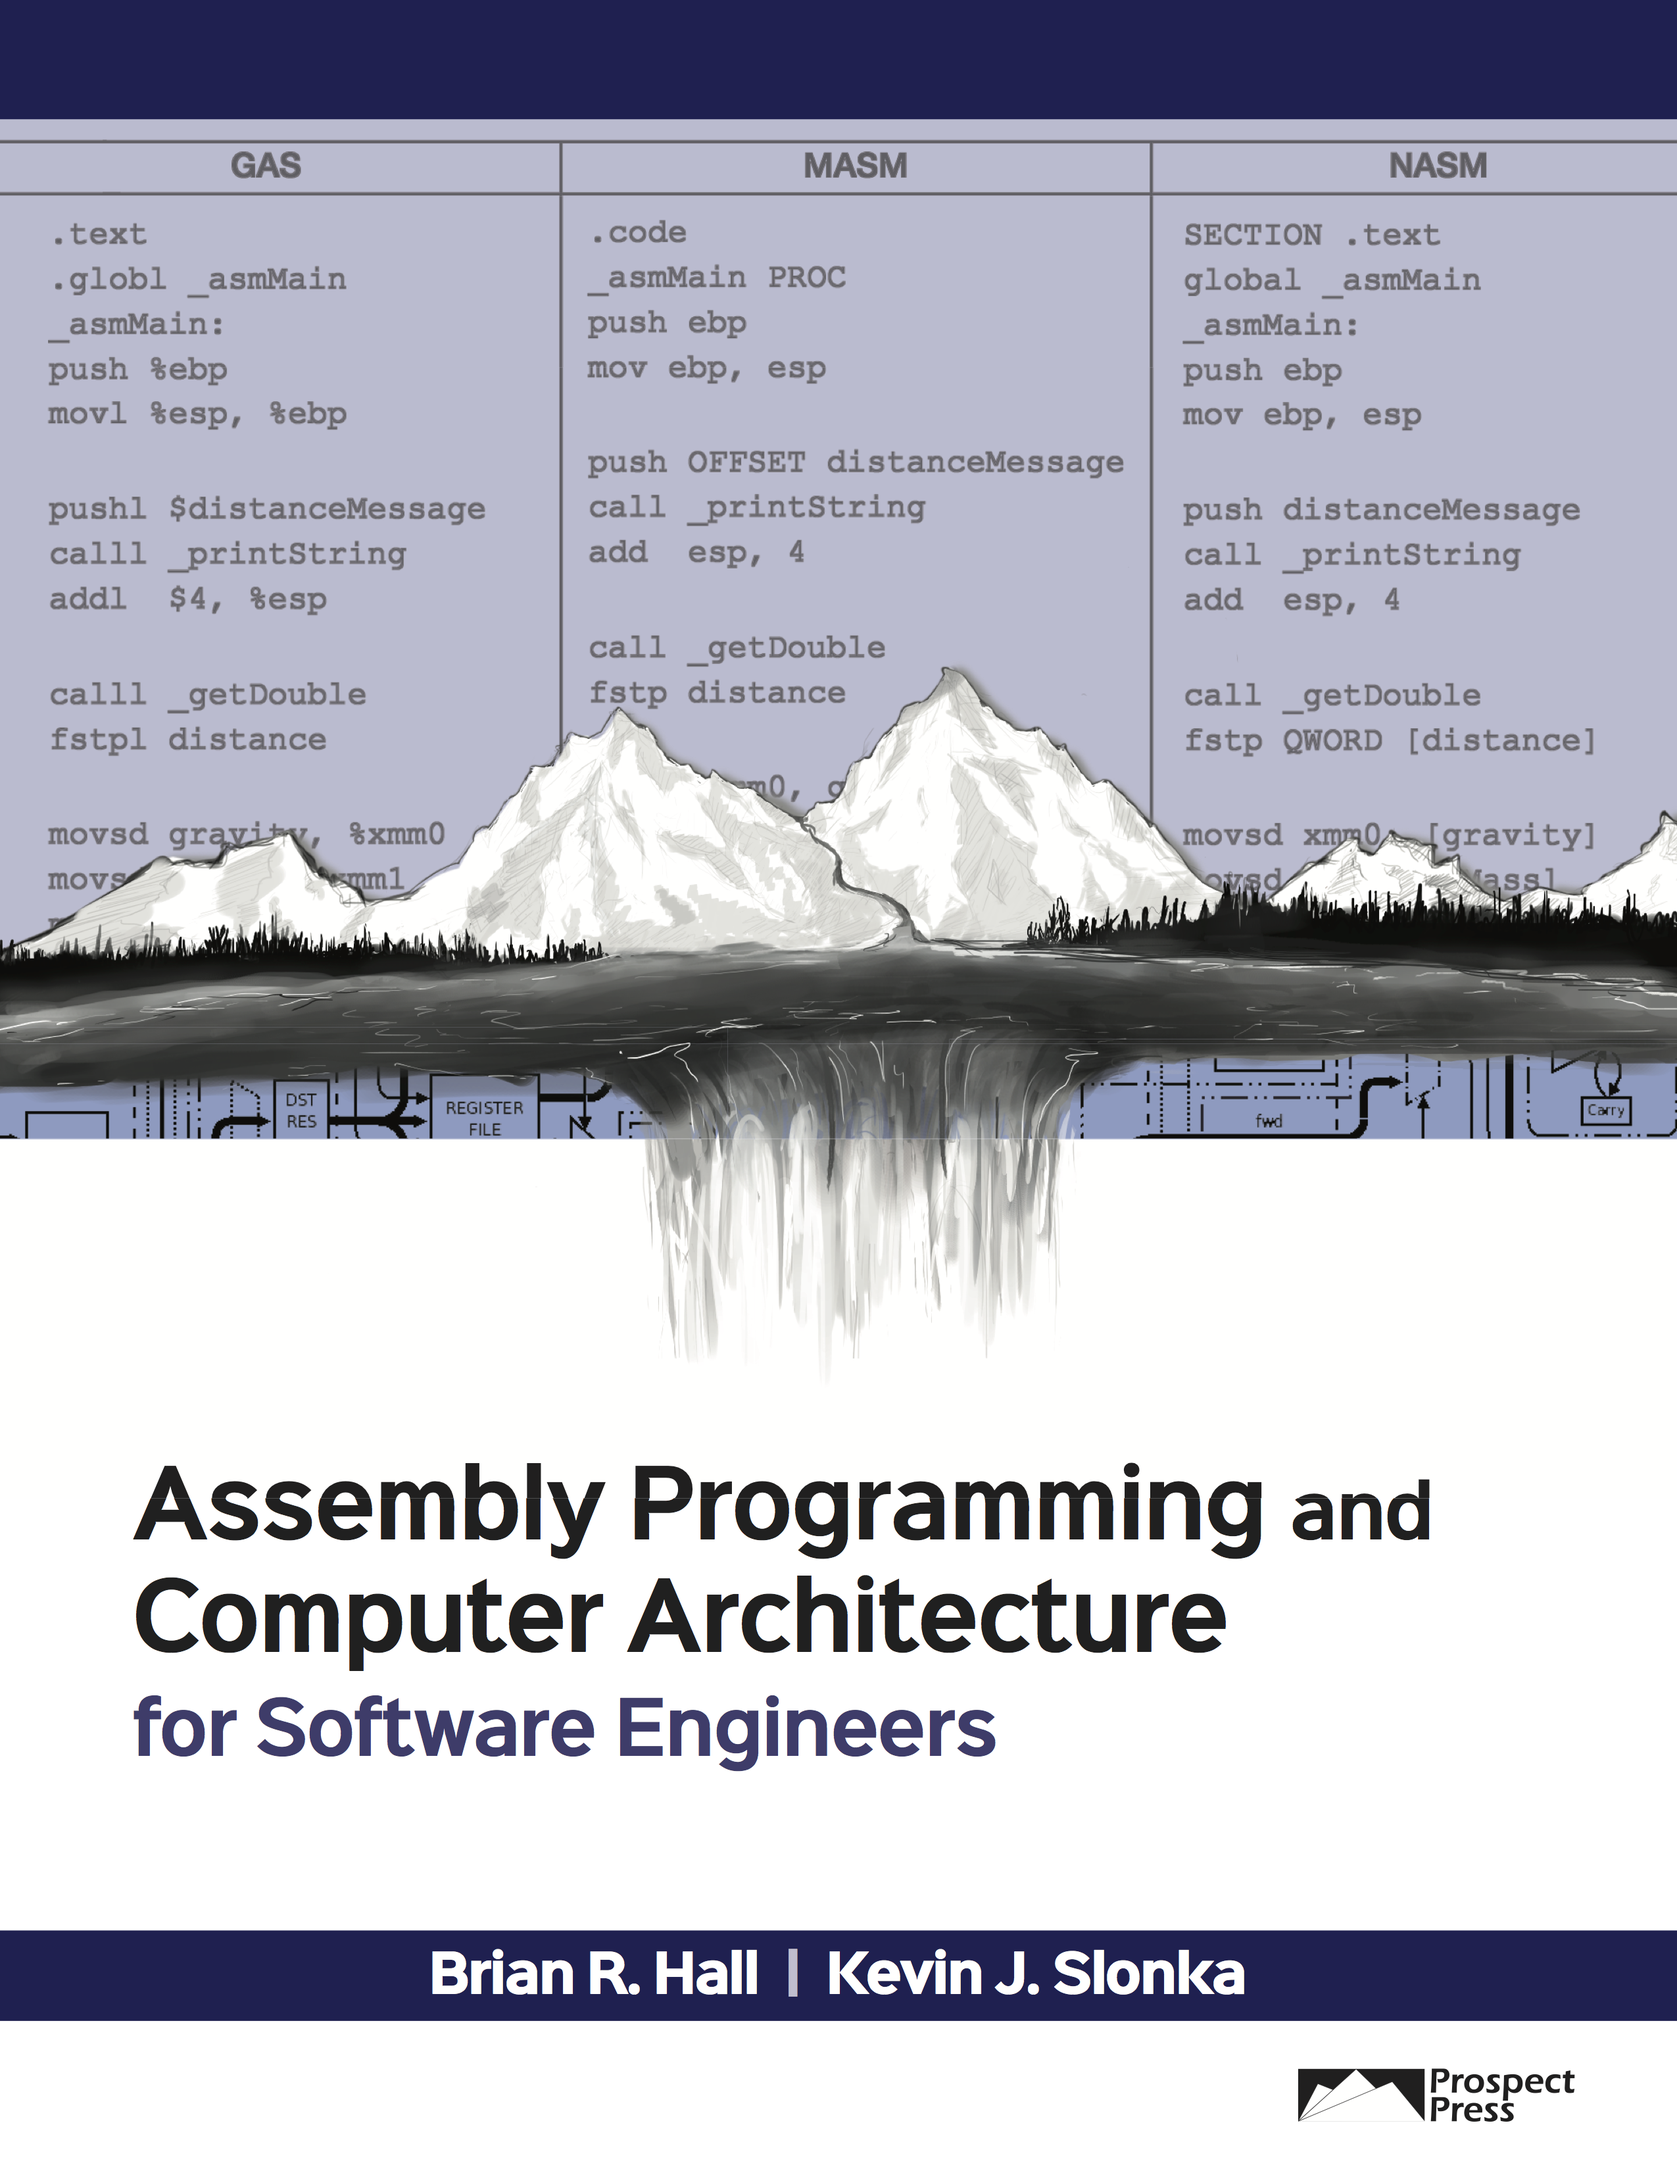
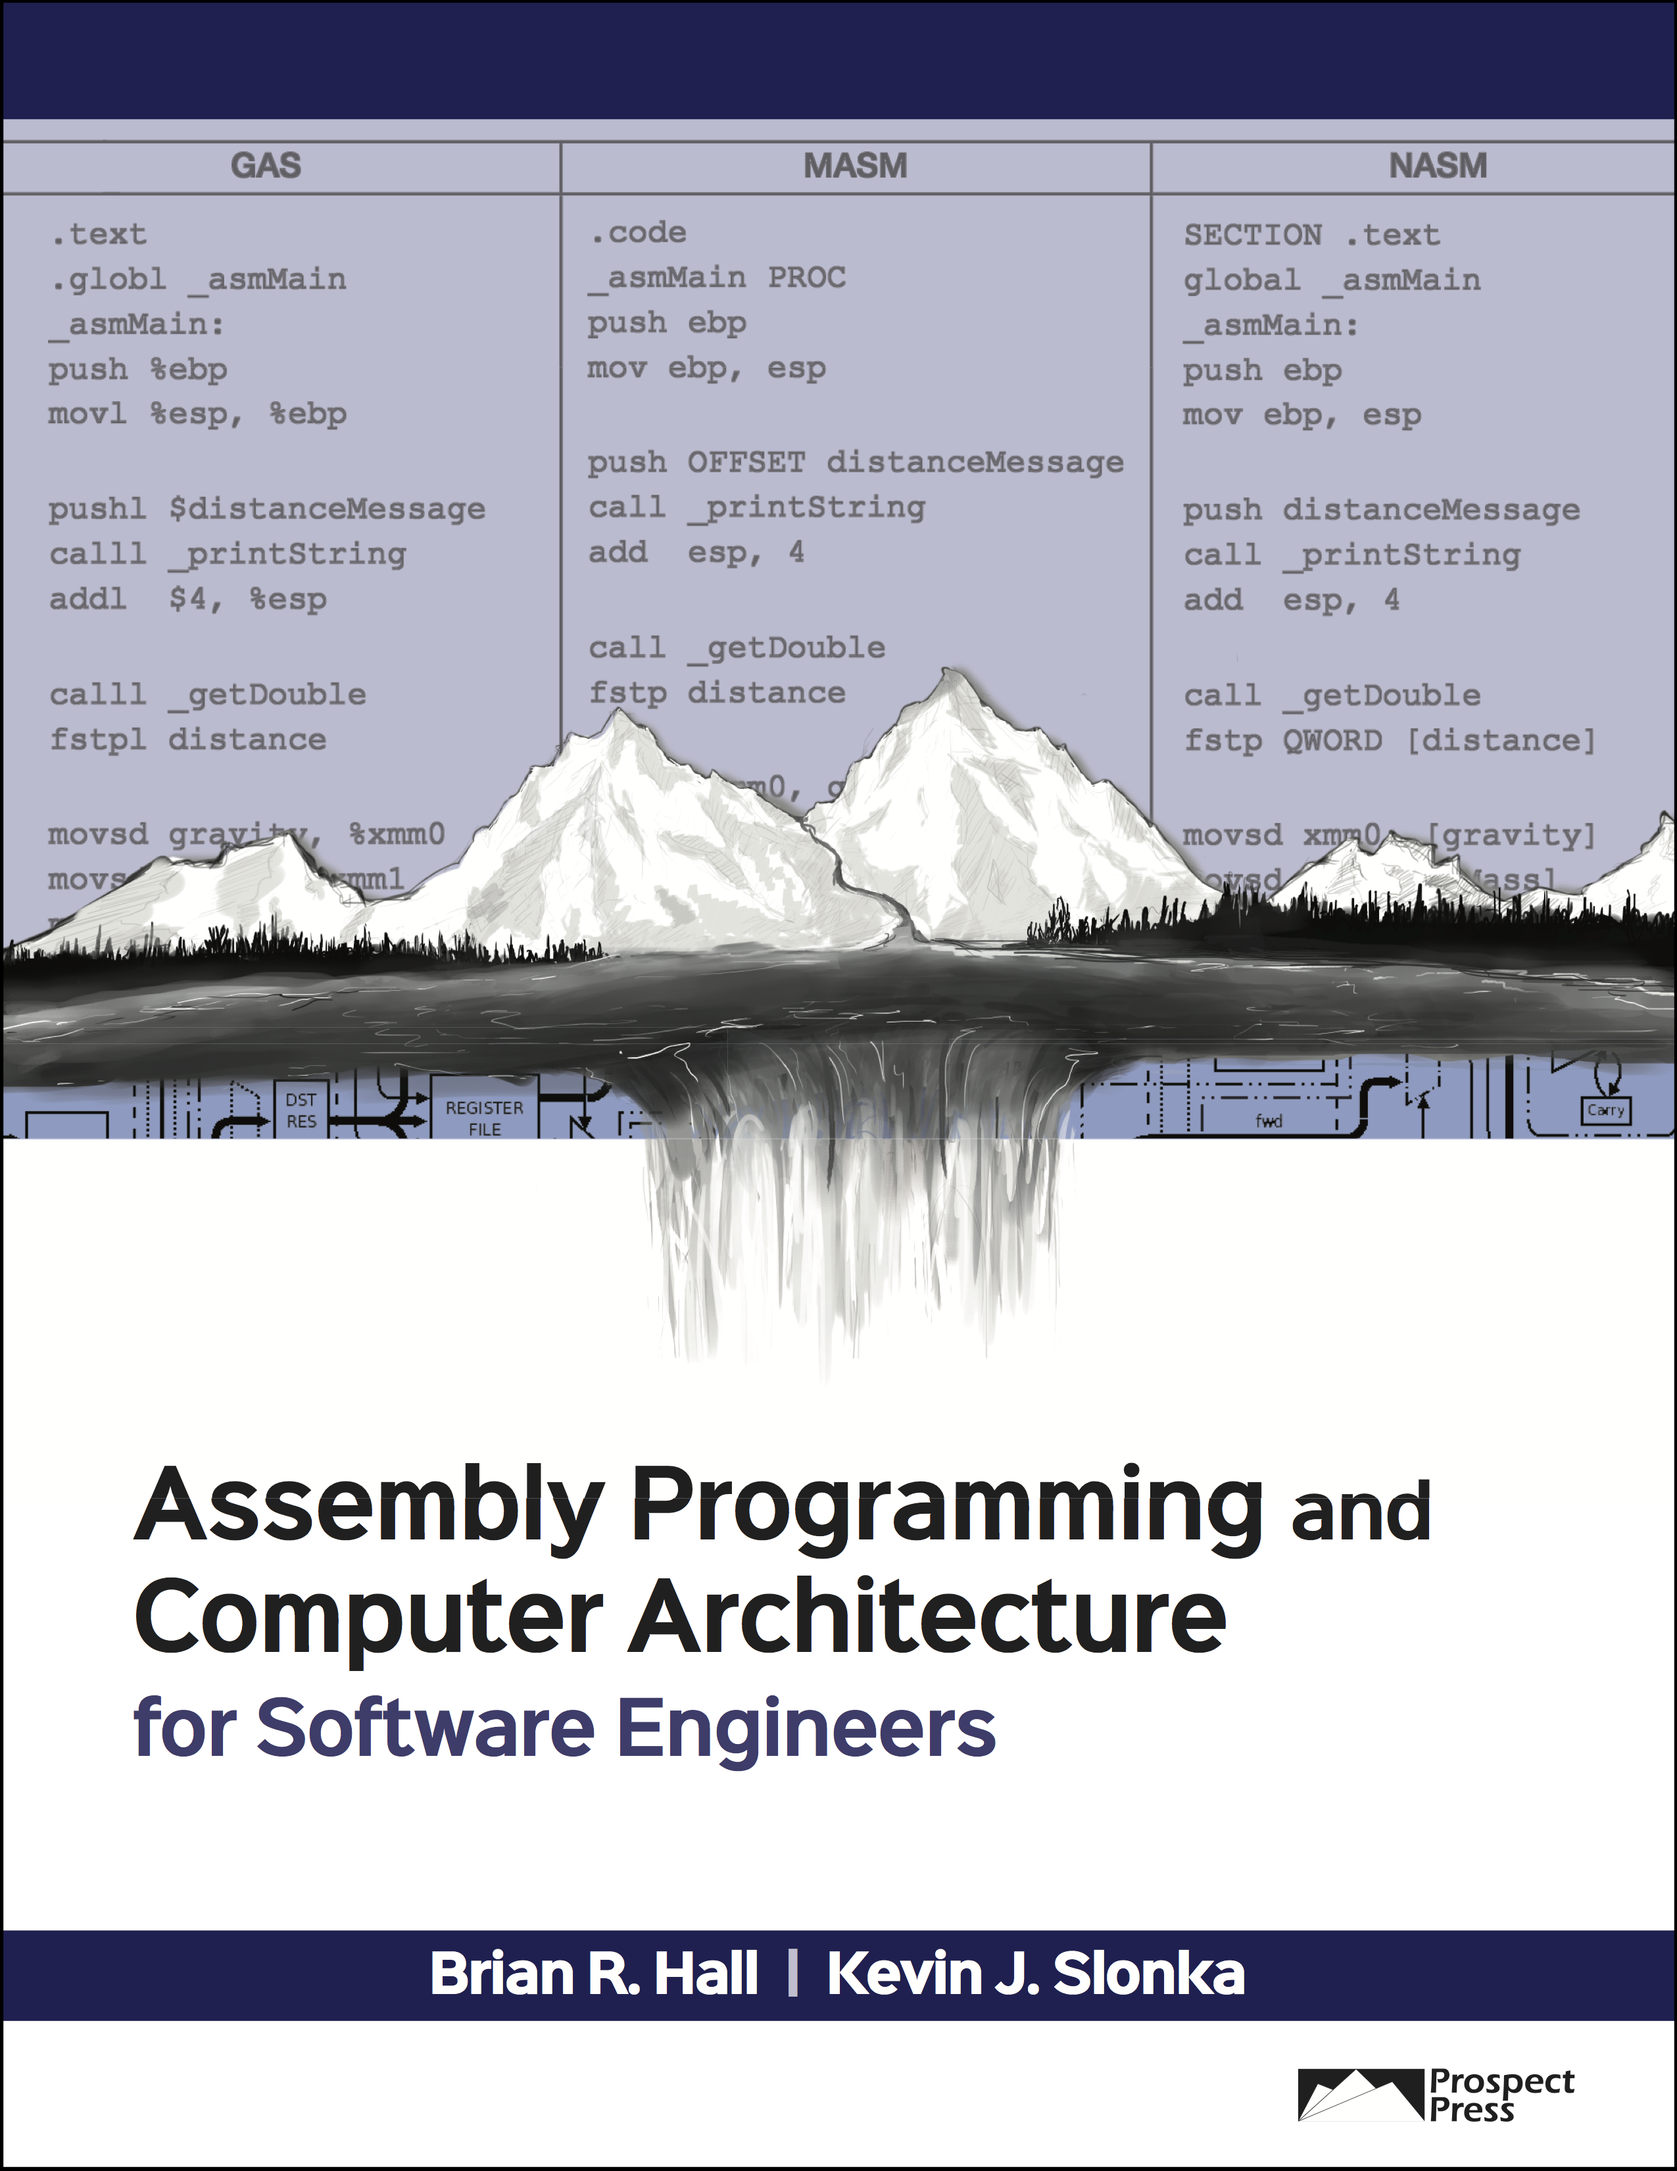
cover

Changed region(s): [[0.0, 0.0, 1.0, 1.0]]

diff --git a/README.md b/README.md
@@ -5,7 +5,7 @@
 #### * Code Repository *
 
 ## About
-<img src = "./content/Cover.png" align="right" alt = "Cover" width="320" border="2" hspace="10" vspace="5">
+<img src = "./content/Cover.png" align="right" alt = "Cover" width="320" hspace="10" vspace="5">
 
 Welcome to the code repository for our book! *APCASE* is a very practical and comprehensive educational text for students, educators, and professionals seeking to learn about Assembly programming and computer architecture. But what makes our book helpful and unique?
 
